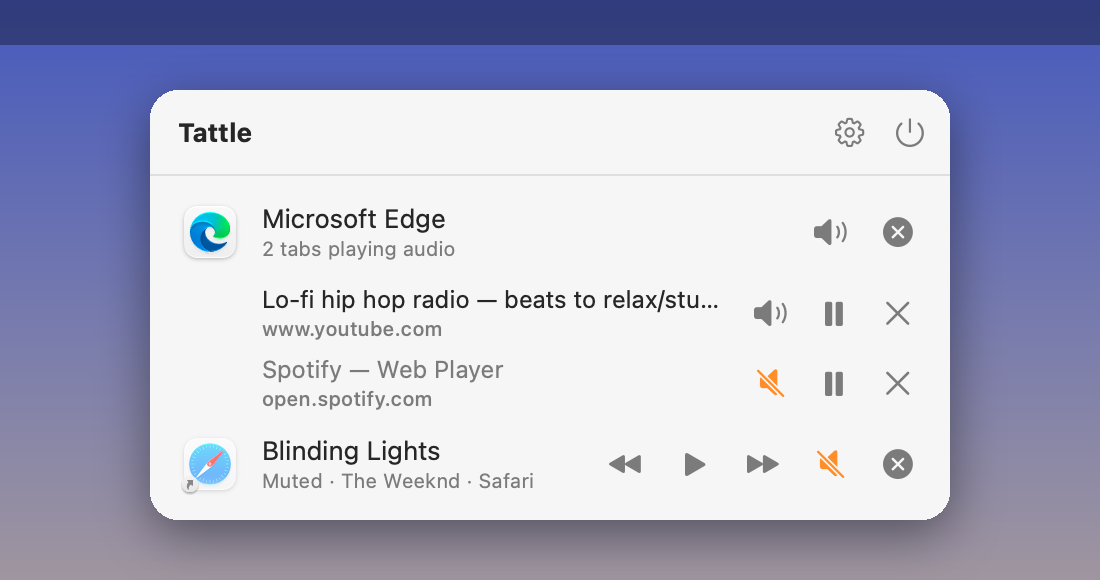
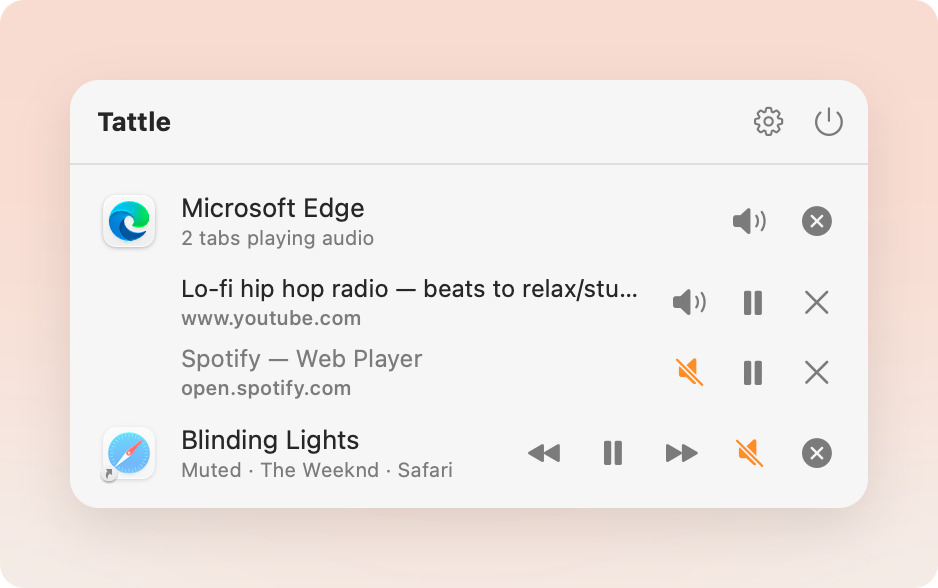
Show the README panel on a light background, with the playing track's pause button
Claude-Session: https://claude.ai/code/session_01XGvFAxTHFn5zpPqdXvMUAS

diff --git a/README.md b/README.md
@@ -18,7 +18,7 @@
   <a href="LICENSE"><img src="https://img.shields.io/github/license/hieudvu/tattle" alt="MIT license"></a>
 </p>
 
-<p align="center"><img src="docs/images/panel.png" alt="Tattle's menu bar panel listing Microsoft Edge with two noisy tabs and Safari playing a muted song" width="560"></p>
+<p align="center"><img src="docs/images/panel.png" alt="Tattle's menu bar panel listing Microsoft Edge with two noisy tabs and Safari playing a muted song" width="600"></p>
 
 ## Features
 
